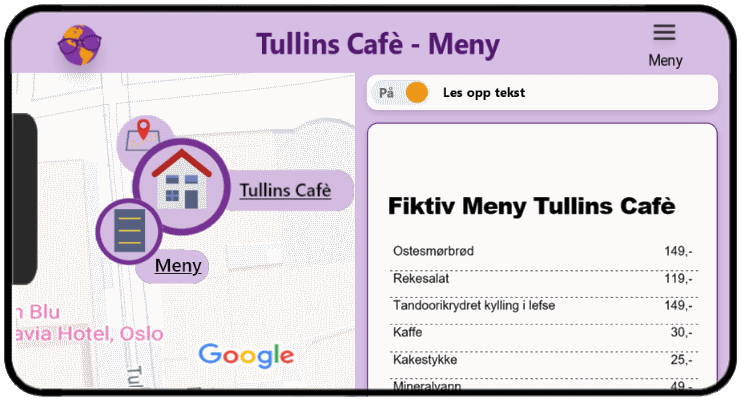
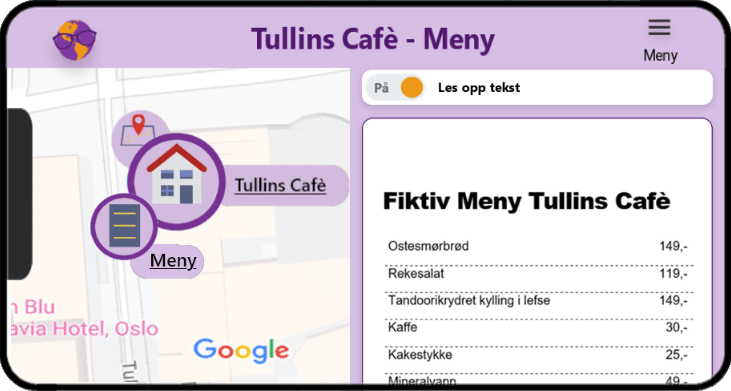
fikse bilde product

diff --git a/css/indexCss2.css b/css/indexCss2.css
@@ -61,11 +61,6 @@ main {
 h1, h2{
     
 }
-#mainheader{
-width: 80%;
-text-align: center;
-margin: 0 auto;
-}
 ul>li {
     list-style: none;
 }
@@ -601,8 +596,8 @@ a:focus {
     box-shadow: 20px 0px 20px 0px rgba(200,200,200);
     height: inherit;
     min-height: 15em;
-    border-radius: 15px;
-    -webkit-border-radius: 15px;
+    border-radius: 7px;
+    -webkit-border-radius: 12px;
     -moz-border-radius: 10px;
     -ms-border-radius: 10px;
     -o-border-radius: 10px;
